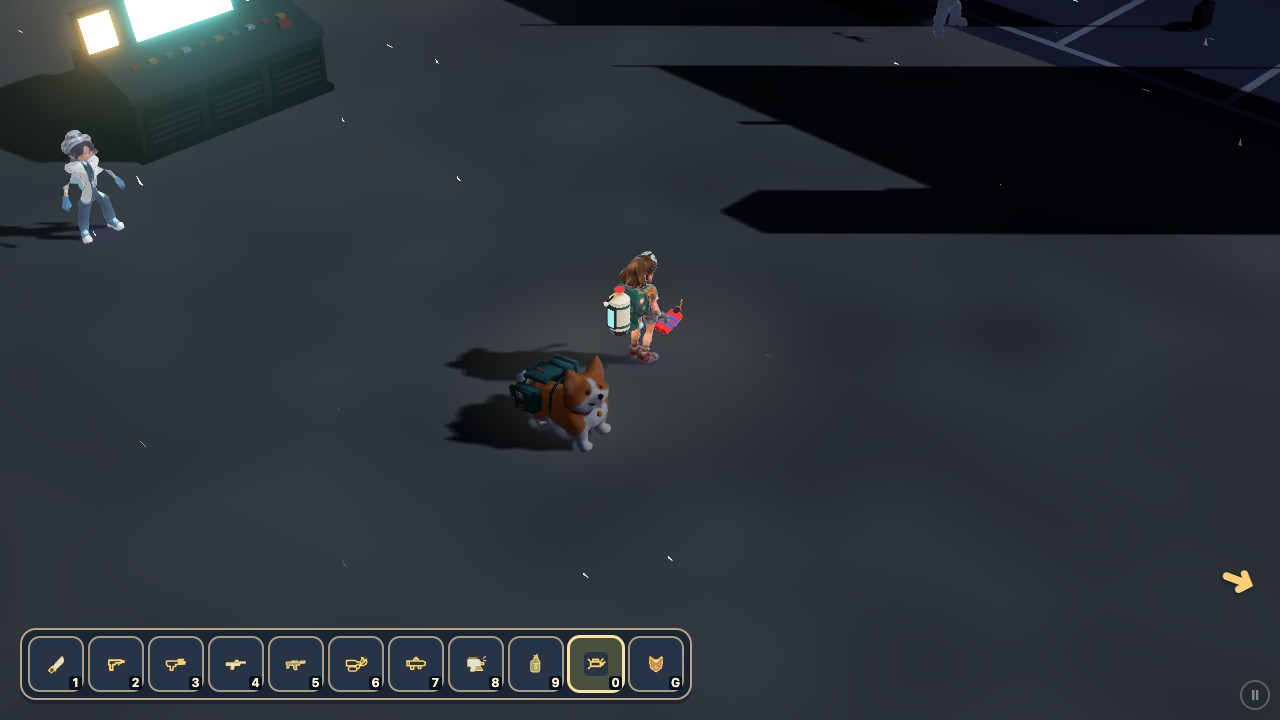
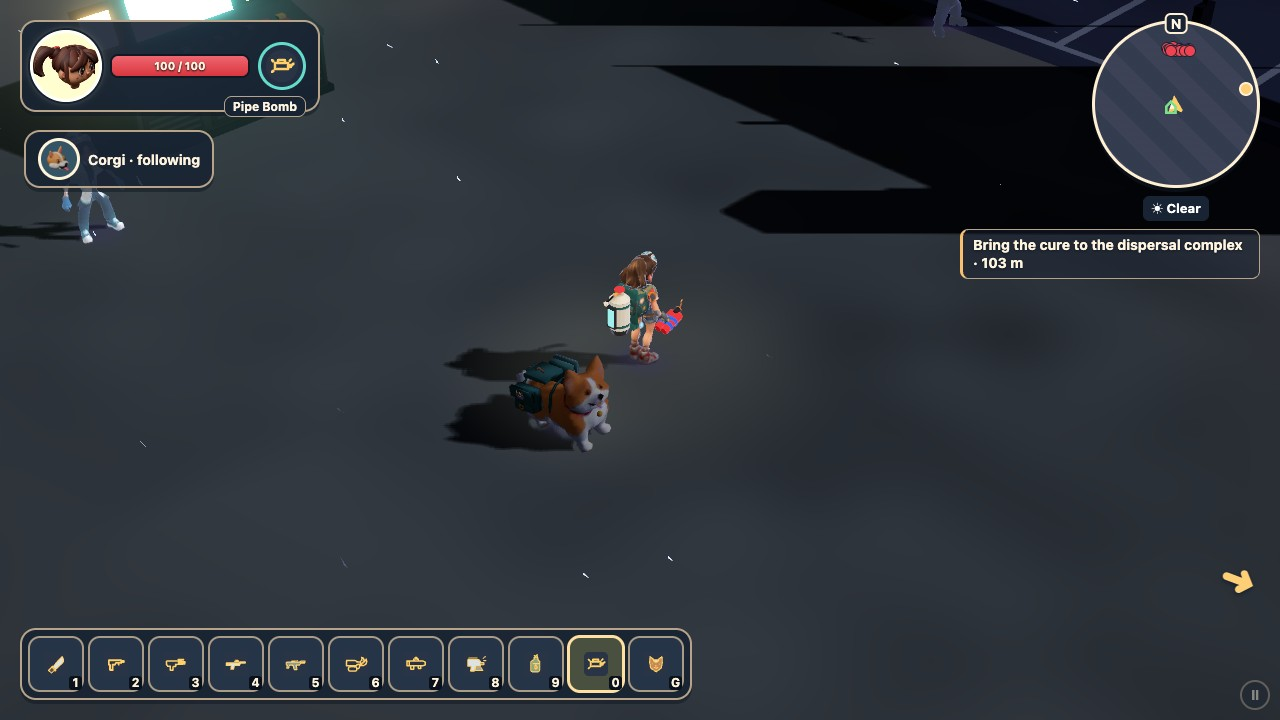
Capture the hangar with the scene HUD enabled

Changed region(s): [[0.0, 0.0306, 0.25, 0.275], [0.75, 0.0, 1.0, 0.3972]]

diff --git a/tools/qa/s177-rack-capture.ts b/tools/qa/s177-rack-capture.ts
@@ -12,11 +12,10 @@ try {
     for (let i = 0; i < 30 && m.state.steps.research.status !== 'active'; i++) m.completeObjective();
     if (m.state.steps.research.status !== 'active') throw new Error('research not active');
     a.teleport(1, { x: 2701, z: 66 }); await a.step(1); await a.step(3400);
-    a.teleport(1, { x: 2706, z: 66 }); await a.step(300); game.campaignUI.hide(); game.ui.show(null); game.ui.update(); await a.screenshotReady(); game.campaignUI.hide(); game.ui.update();
-    (document.querySelector('[data-testid=weapon-rack]') as HTMLElement).style.visibility = 'visible';
-    return { carried: m.state.states['cure-carried'], rack: game.world.combat!.runner.loadout.activeEntries().map(e => e.id), owned: game.world.progression?.campaign?.ownedActions, phase: m.state.phase, cinematic: m.state.cinematic, storyLock: game.world.storyLock, ui: document.body.dataset.uiScreen, hud: (() => { const e = document.querySelector('[data-testid=weapon-rack]') as HTMLElement; const root = e.closest('.hud') as HTMLElement; return { body: document.body.className, root: root.outerHTML.slice(0, 200), css: getComputedStyle(root).cssText, visibility: getComputedStyle(e).visibility, display: getComputedStyle(e).display, rect: e.getBoundingClientRect().toJSON() }; })(), backend: a.perf().backend };
+    a.teleport(1, { x: 2706, z: 66 }); await a.step(300); game.campaignUI.hide(); game.ui.show(null); game.ui.update(); await a.screenshotReady(); game.campaignUI.hide(); game.ui.hud.root.dataset.sceneHud = ''; game.ui.update();
+    return { carried: m.state.states['cure-carried'], rack: game.world.combat!.runner.loadout.activeEntries().map(e => e.id), owned: game.world.progression?.campaign?.ownedActions, phase: m.state.phase, cinematic: m.state.cinematic, storyLock: game.world.storyLock, ui: document.body.dataset.uiScreen, hudVisible: getComputedStyle(document.querySelector('[data-testid=weapon-rack]')!).visibility === 'visible', backend: a.perf().backend };
   });
   console.log(JSON.stringify({ info, errors: session.errors }));
-  if (!info.carried || info.rack.length !== 10 || session.errors.length) throw new Error('Hangar rack fixture did not reach expected state');
+  if (!info.carried || !info.hudVisible || info.rack.length !== 10 || session.errors.length) throw new Error('Hangar rack fixture did not reach expected state');
   await session.page.screenshot({ path: 'docs/reports/s177-rackkeys/rack-l10.jpg', type: 'jpeg', quality: 90 });
 } finally { await session.close(); stopServer(); }

diff --git a/docs/reports/s177-rackkeys/README.md b/docs/reports/s177-rackkeys/README.md
@@ -1,12 +1,12 @@
 # s177 rack and weapons
 
-The HIGH WebGL2 capture [rack-l10.jpg](rack-l10.jpg) uses the production L10 mission handoff, with QA objective completion and teleports to reach the hangar. The capture fixture enabled the rack's visibility explicitly because the Scene Lab session kept it hidden; it therefore shows the rack layout and artwork, not evidence that the normal game HUD becomes visible. The mission reported `cure-carried`, ten rack weapons, and no browser errors. The ordered badges read 1 through 9 and 0, followed by the corgi's G button.
+The HIGH WebGL2 capture [rack-l10.jpg](rack-l10.jpg) uses the production L10 mission handoff, with QA objective completion and teleports to reach the hangar. The fixture enabled Scene Lab's HUD marker, which exempts the game HUD from its scene-isolation stylesheet; no visibility override was applied to the rack. This is a controlled handoff rather than a normal-input playthrough. The mission reported `cure-carried`, ten rack weapons, and no browser errors. The ordered badges read 1 through 9 and 0, followed by the corgi's G button.
 
 The picture shows ten separate dark tiles and the corgi tile in one row. The machete is a diagonal blade; handgun and shotgun have short and long barrel outlines; hunting rifle has a long stock and scope; assault rifle has a magazine; flamethrower has a tank and flame; launcher has a tube; nail gun has a broad body and nail magazine; molotov is a bottle with a flame; pipe bomb is a horizontal cylinder with a fuse; the corgi icon is a pointed-eared dog face. The silhouettes are small at this viewport, especially the guns, so their distinction needs player review.
 
 ## Browser QA needed
 
-- Check normal gameplay HUD visibility and badge readability on HIGH and LOW, with at least four weapons in the L10 rack.
+- Check badge readability in normal gameplay on HIGH and LOW, with at least four weapons in the L10 rack.
 - Exercise Q and Shift+Q through wraparound, number keys, clicking and touch, including vehicle and mounted-gun guards.
 - Review the full hangar rack and separate corgi button in ordinary gameplay, including icon legibility and the button's cooldown.
 - Verify the pipe-bomb Mega fall, recovery and immunity visually, and review the molotov impact and fire field.
